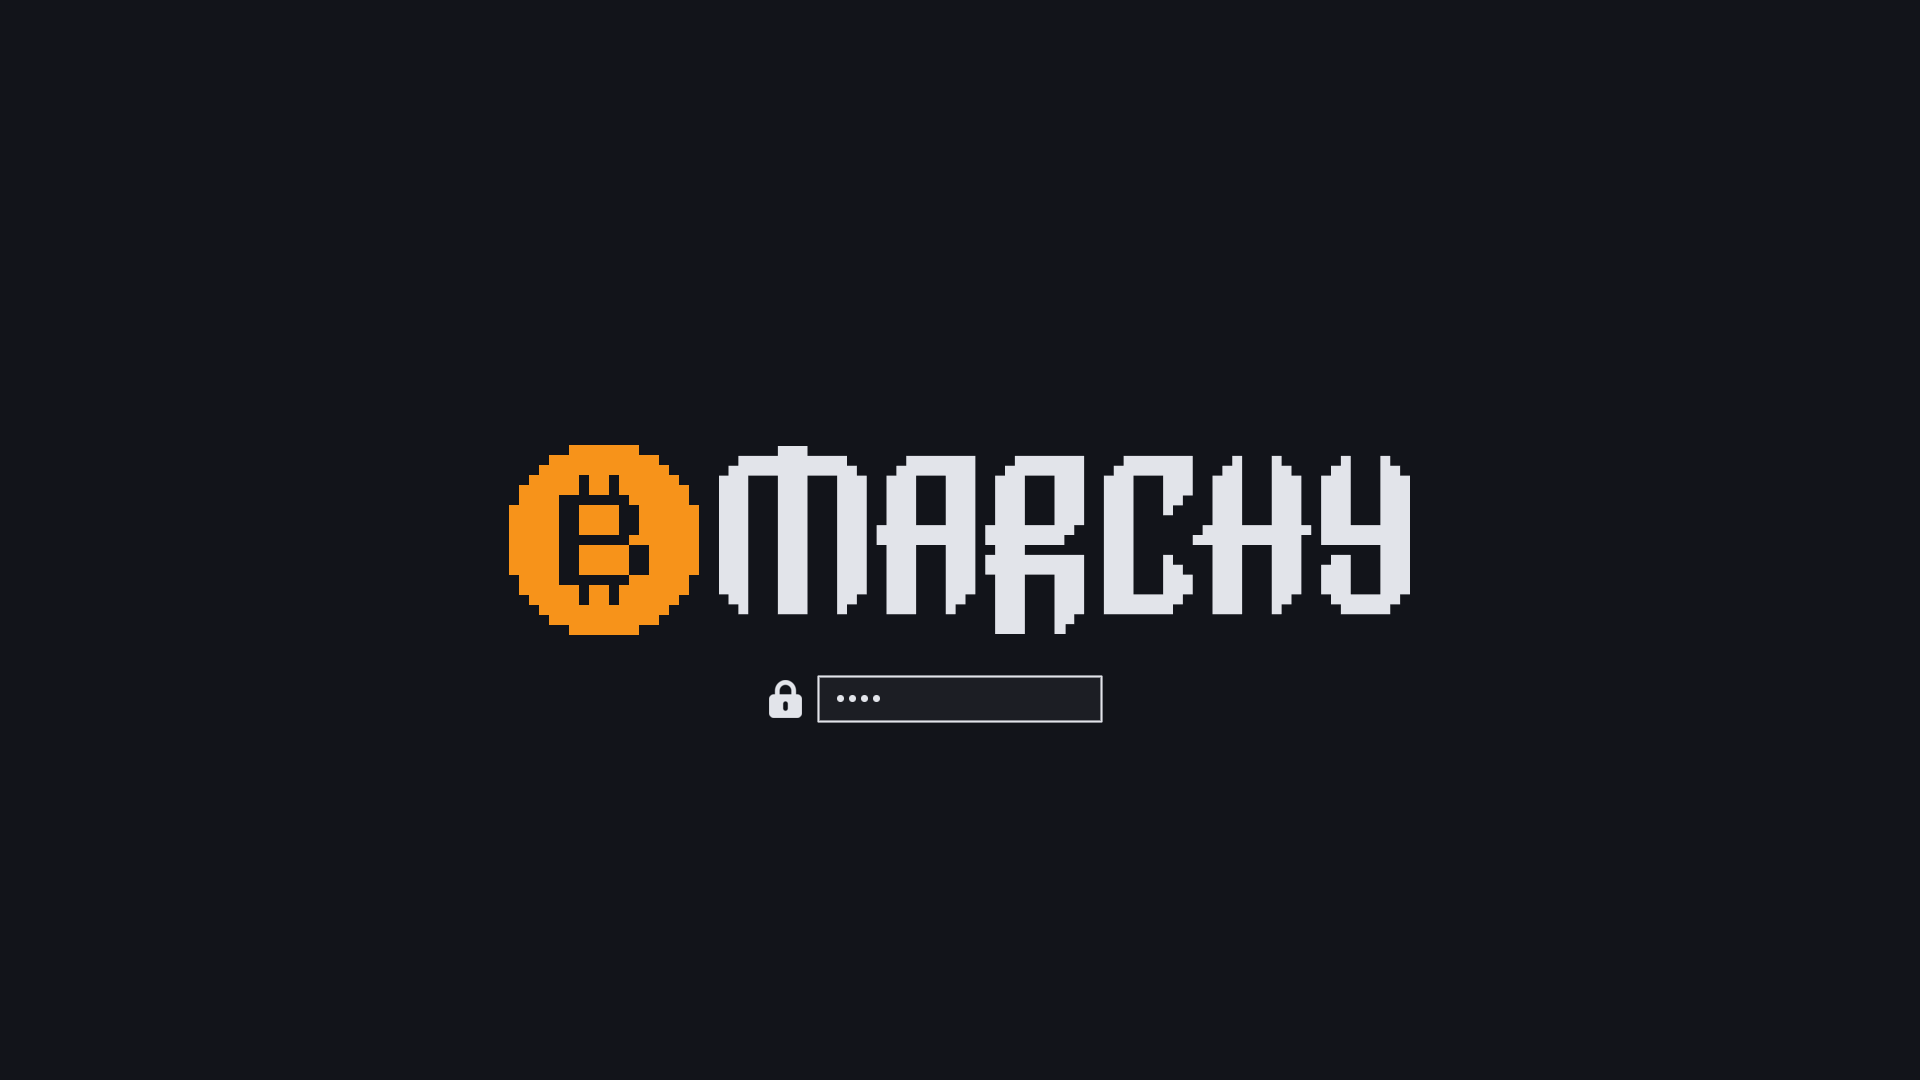
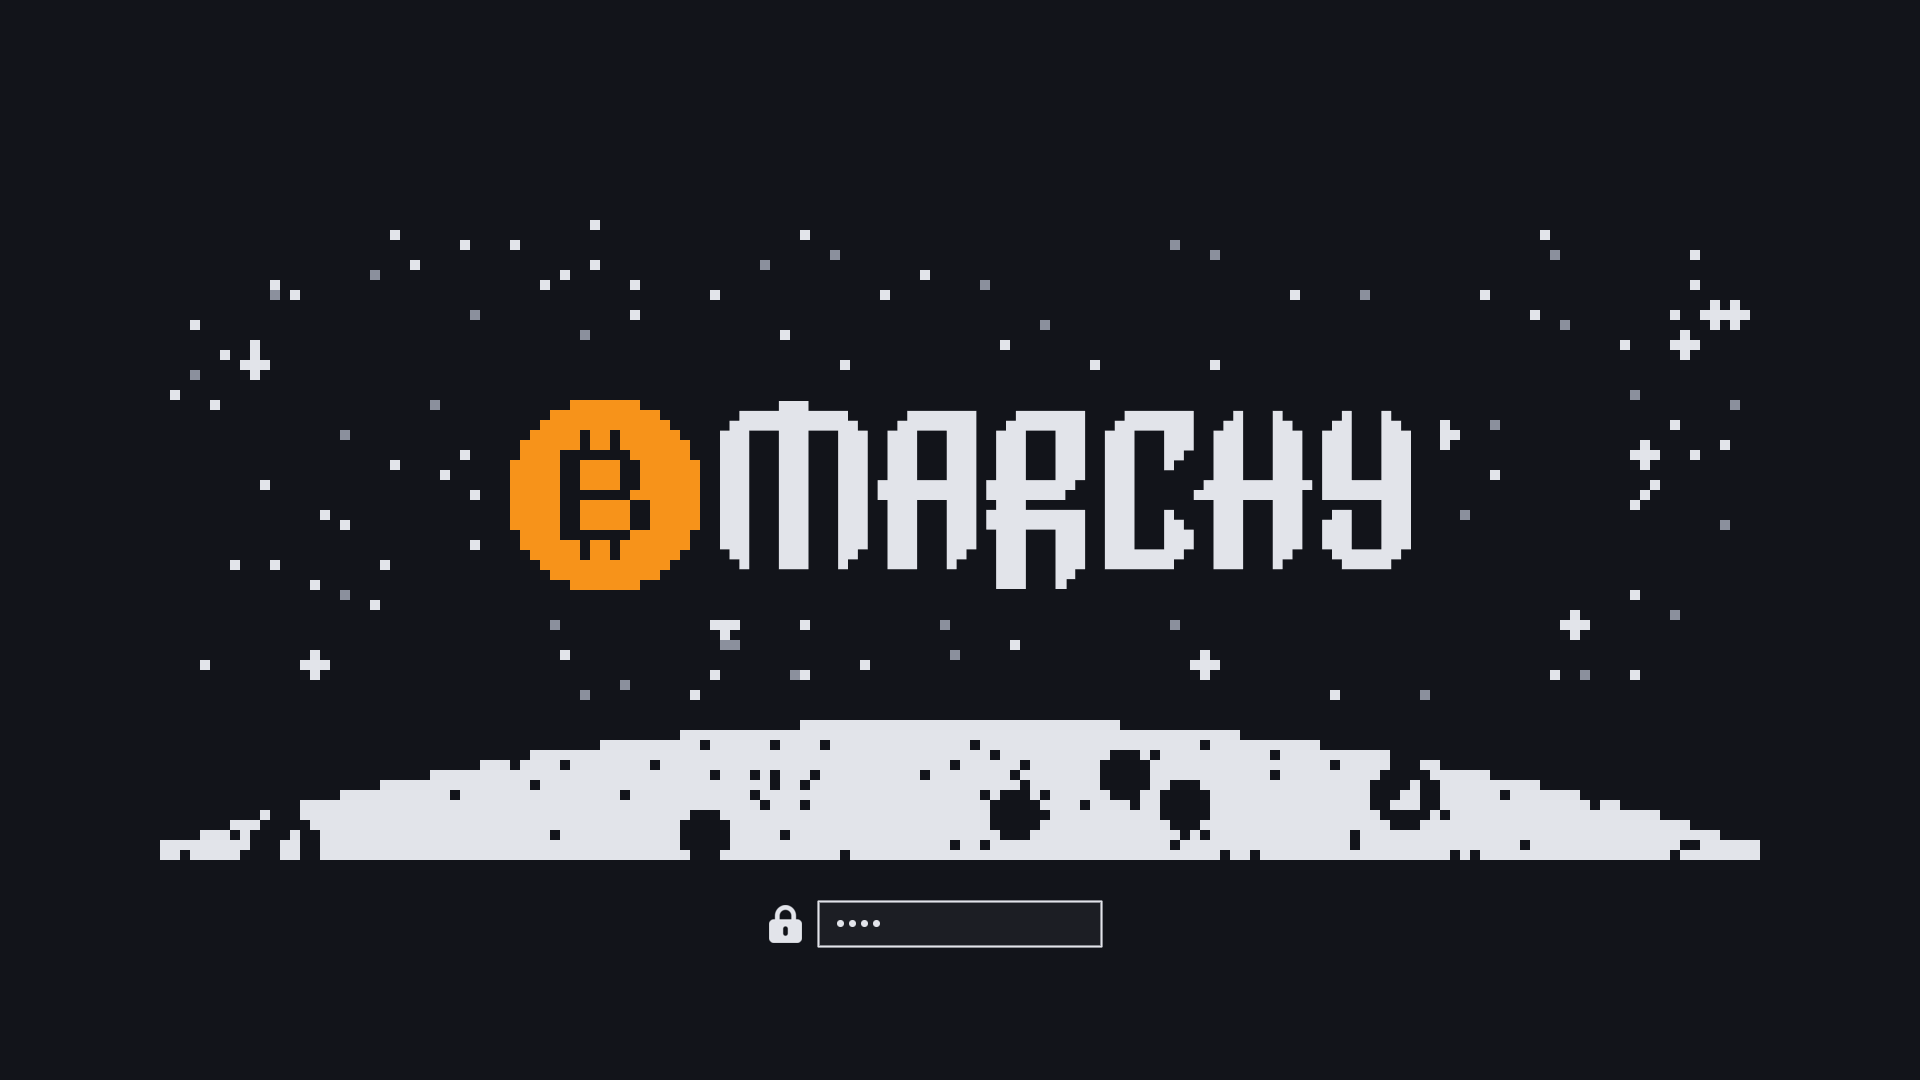
feat(splash): star field and moon limb around the wordmark
unlock.png grows to 1600x640: sparse pixel stars clear of the wordmark and
a cratered moon limb along the bottom edge, so the password field Plymouth
and SDDM place under the image sits on the horizon. make-splash.py
regenerates the asset from the stock logo.

Claude-Session: https://claude.ai/code/session_01UT1S32i88jEjdjDRz892aP

diff --git a/make-splash.py b/make-splash.py
@@ -1,0 +1,81 @@
+#!/usr/bin/env python3
+"""Build unlock.png: the stock OMARCHY pixel wordmark with its O swapped for a
+bitcoin coin, a sparse star field around it and a cratered moon limb along the
+bottom edge. Plymouth/SDDM put the password field 40 px under this image, so
+the limb reads as the horizon the field sits on. 10 px cells, like the stock
+logo. Needs ImageMagick and /usr/share/plymouth/themes/omarchy/logo.png.
+
+    ./make-splash.py && omarchy plymouth preview '#12141a' '#e2e4ea' unlock.png preview-unlock.png
+"""
+import random, subprocess, tempfile, os
+
+CELL = 10
+WHITE, DIM, ORANGE, INK = (0xE2,0xE4,0xEA), (0x8B,0x90,0x9D), (0xF7,0x93,0x1A), (0x12,0x14,0x1A)
+STOCK = "/usr/share/plymouth/themes/omarchy/logo.png"   # 800x188, O spans x<89, M starts at 109
+
+def pam(grid, path):
+    h, w = len(grid), len(grid[0])
+    with open(path, "wb") as f:
+        f.write(f"P7\nWIDTH {w}\nHEIGHT {h}\nDEPTH 4\nMAXVAL 255\nTUPLTYPE RGB_ALPHA\nENDHDR\n".encode())
+        f.write(bytes(v for row in grid for c in row for v in ((0,0,0,0) if c is None else c + (255,))))
+
+# --- coin: 19-cell disc, charcoal pixel B with stubs top and bottom
+GLYPH = ["..#..#...", "..#..#...", "#######..", "##....##.", "##....##.", "##....##.", "#######..",
+         "##.....##", "##.....##", "##.....##", "#######..", "..#..#...", "..#..#..."]
+N = 19; oy = (N - len(GLYPH)) // 2; ox = (N - len(GLYPH[0])) // 2
+coin = [[None] * N for _ in range(N)]
+for y in range(N):
+    for x in range(N):
+        if (x + .5 - N/2)**2 + (y + .5 - N/2)**2 > (N/2)**2: continue
+        gy, gx = y - oy, x - ox
+        coin[y][x] = INK if 0 <= gy < len(GLYPH) and 0 <= gx < len(GLYPH[0]) and GLYPH[gy][gx] == "#" else ORANGE
+
+# --- backdrop: 160x64 cells, moon limb (big circle arc) + stars clear of the wordmark box
+random.seed(21)
+W, H = 160, 64
+bg = [[None] * W for _ in range(H)]
+R = 260; cx, cy = W/2, H - 14 + R
+for y in range(H):
+    for x in range(W):
+        if (x + .5 - cx)**2 + (y + .5 - cy)**2 <= R*R: bg[y][x] = WHITE
+for x in range(W):                                   # drop slivers thinner than 2 cells
+    col = [y for y in range(H) if bg[y][x]]
+    if len(col) < 2:
+        for y in col: bg[y][x] = None
+moon = [(x, y) for y in range(H) for x in range(W) if bg[y][x] == WHITE]
+top = min(y for _, y in moon)
+for x, y in moon:
+    if y > top + 1 and random.random() < 0.05: bg[y][x] = INK
+for _ in range(9):                                   # crater rims with a shadowed half
+    x, y = random.choice(moon); r = random.choice([2, 2, 3])
+    if y - r <= top + 1: continue
+    for yy in range(y - r, y + r + 1):
+        for xx in range(x - r, x + r + 1):
+            d = (xx - x)**2 + (yy - y)**2
+            if 0 <= xx < W and 0 <= yy < H and bg[yy][xx] is not None:
+                if r*r - 2*r <= d <= r*r + 1: bg[yy][xx] = INK
+                elif d < r*r - 2*r and (xx - x) + (yy - y) < 0: bg[yy][xx] = INK
+BX, BY, BW, BH = 35, 18, 90, 19                      # wordmark box in cells
+clear = lambda x, y: BX - 3 <= x < BX + BW + 3 and BY - 3 <= y < BY + BH + 3
+n = 0
+while n < 110:
+    x, y = random.randrange(W), random.randrange(top - 2)
+    if clear(x, y) or bg[y][x] is not None: continue
+    if random.random() < 0.12:                       # plus-shaped bright star
+        for dx, dy in ((0,0), (1,0), (-1,0), (0,1), (0,-1)):
+            if 0 <= x+dx < W and 0 <= y+dy < H and not clear(x+dx, y+dy): bg[y+dy][x+dx] = WHITE
+    else:
+        bg[y][x] = WHITE if random.random() < 0.6 else DIM
+    n += 1
+
+tmp = tempfile.mkdtemp()
+pam(coin, f"{tmp}/coin.pam"); pam(bg, f"{tmp}/bg.pam")
+m = lambda *a: subprocess.run(["magick", *a], check=True)
+m(f"{tmp}/coin.pam", "-filter", "point", "-resize", f"{CELL*100}%", f"{tmp}/coin.png")
+m(f"{tmp}/bg.pam",   "-filter", "point", "-resize", f"{CELL*100}%", f"{tmp}/bg.png")
+m(STOCK, "-crop", "691x188+109+0", "+repage", "-fill", "#e2e4ea", "-colorize", "100", f"{tmp}/marchy.png")
+m("-size", "901x190", "xc:none", f"{tmp}/coin.png", "-geometry", "+0+0", "-composite",
+  f"{tmp}/marchy.png", "-geometry", "+210+1", "-composite", f"{tmp}/wordmark.png")
+m(f"{tmp}/bg.png", f"{tmp}/wordmark.png", "-geometry", f"+{BX*CELL}+{BY*CELL}", "-composite",
+  os.path.join(os.path.dirname(os.path.abspath(__file__)), "unlock.png"))
+print("wrote unlock.png")

diff --git a/README.md b/README.md
@@ -37,7 +37,9 @@ added in ImageMagick. Bitcoin logo: public domain.
 ## Boot / login splash
 
 `unlock.png` is the Plymouth boot and SDDM login logo: the stock pixel-art
-OMARCHY wordmark in print white, its O replaced by a pixel bitcoin coin.
+OMARCHY wordmark in print white, its O replaced by a pixel bitcoin coin, a
+star field around it and a cratered moon limb along the bottom edge -- the
+password field sits right under that horizon. `make-splash.py` rebuilds it.
 Apply with:
 
 ```bash
